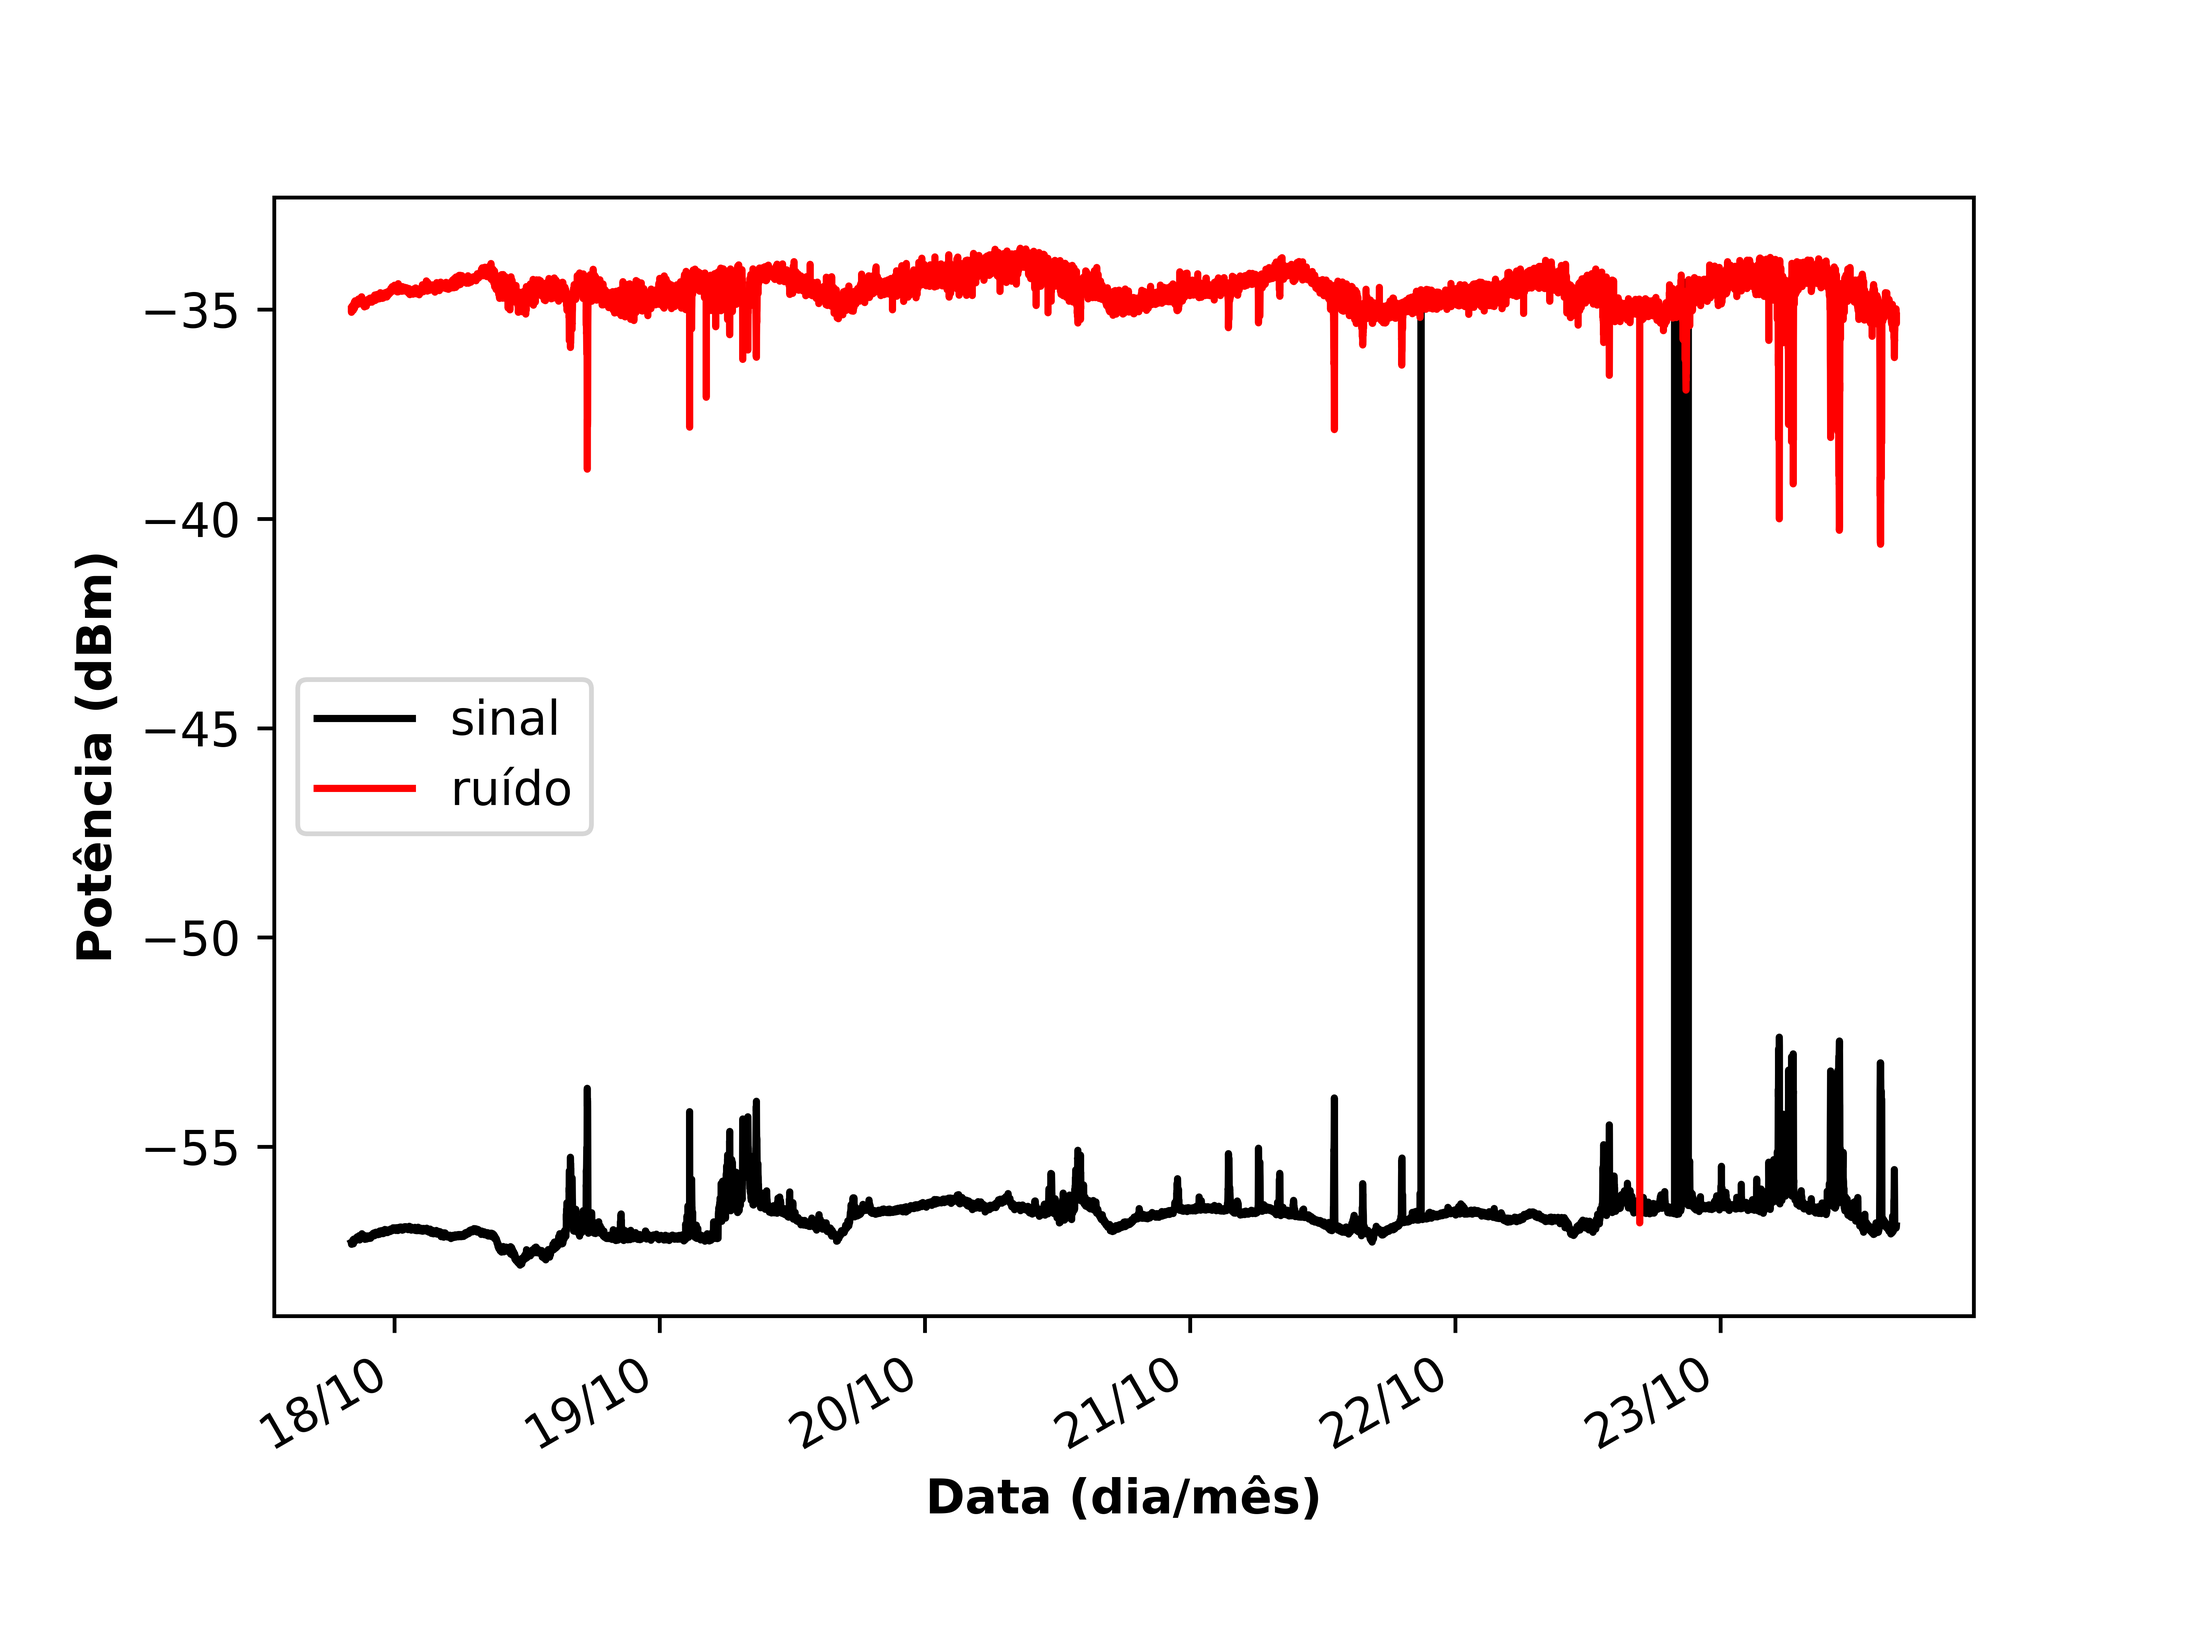
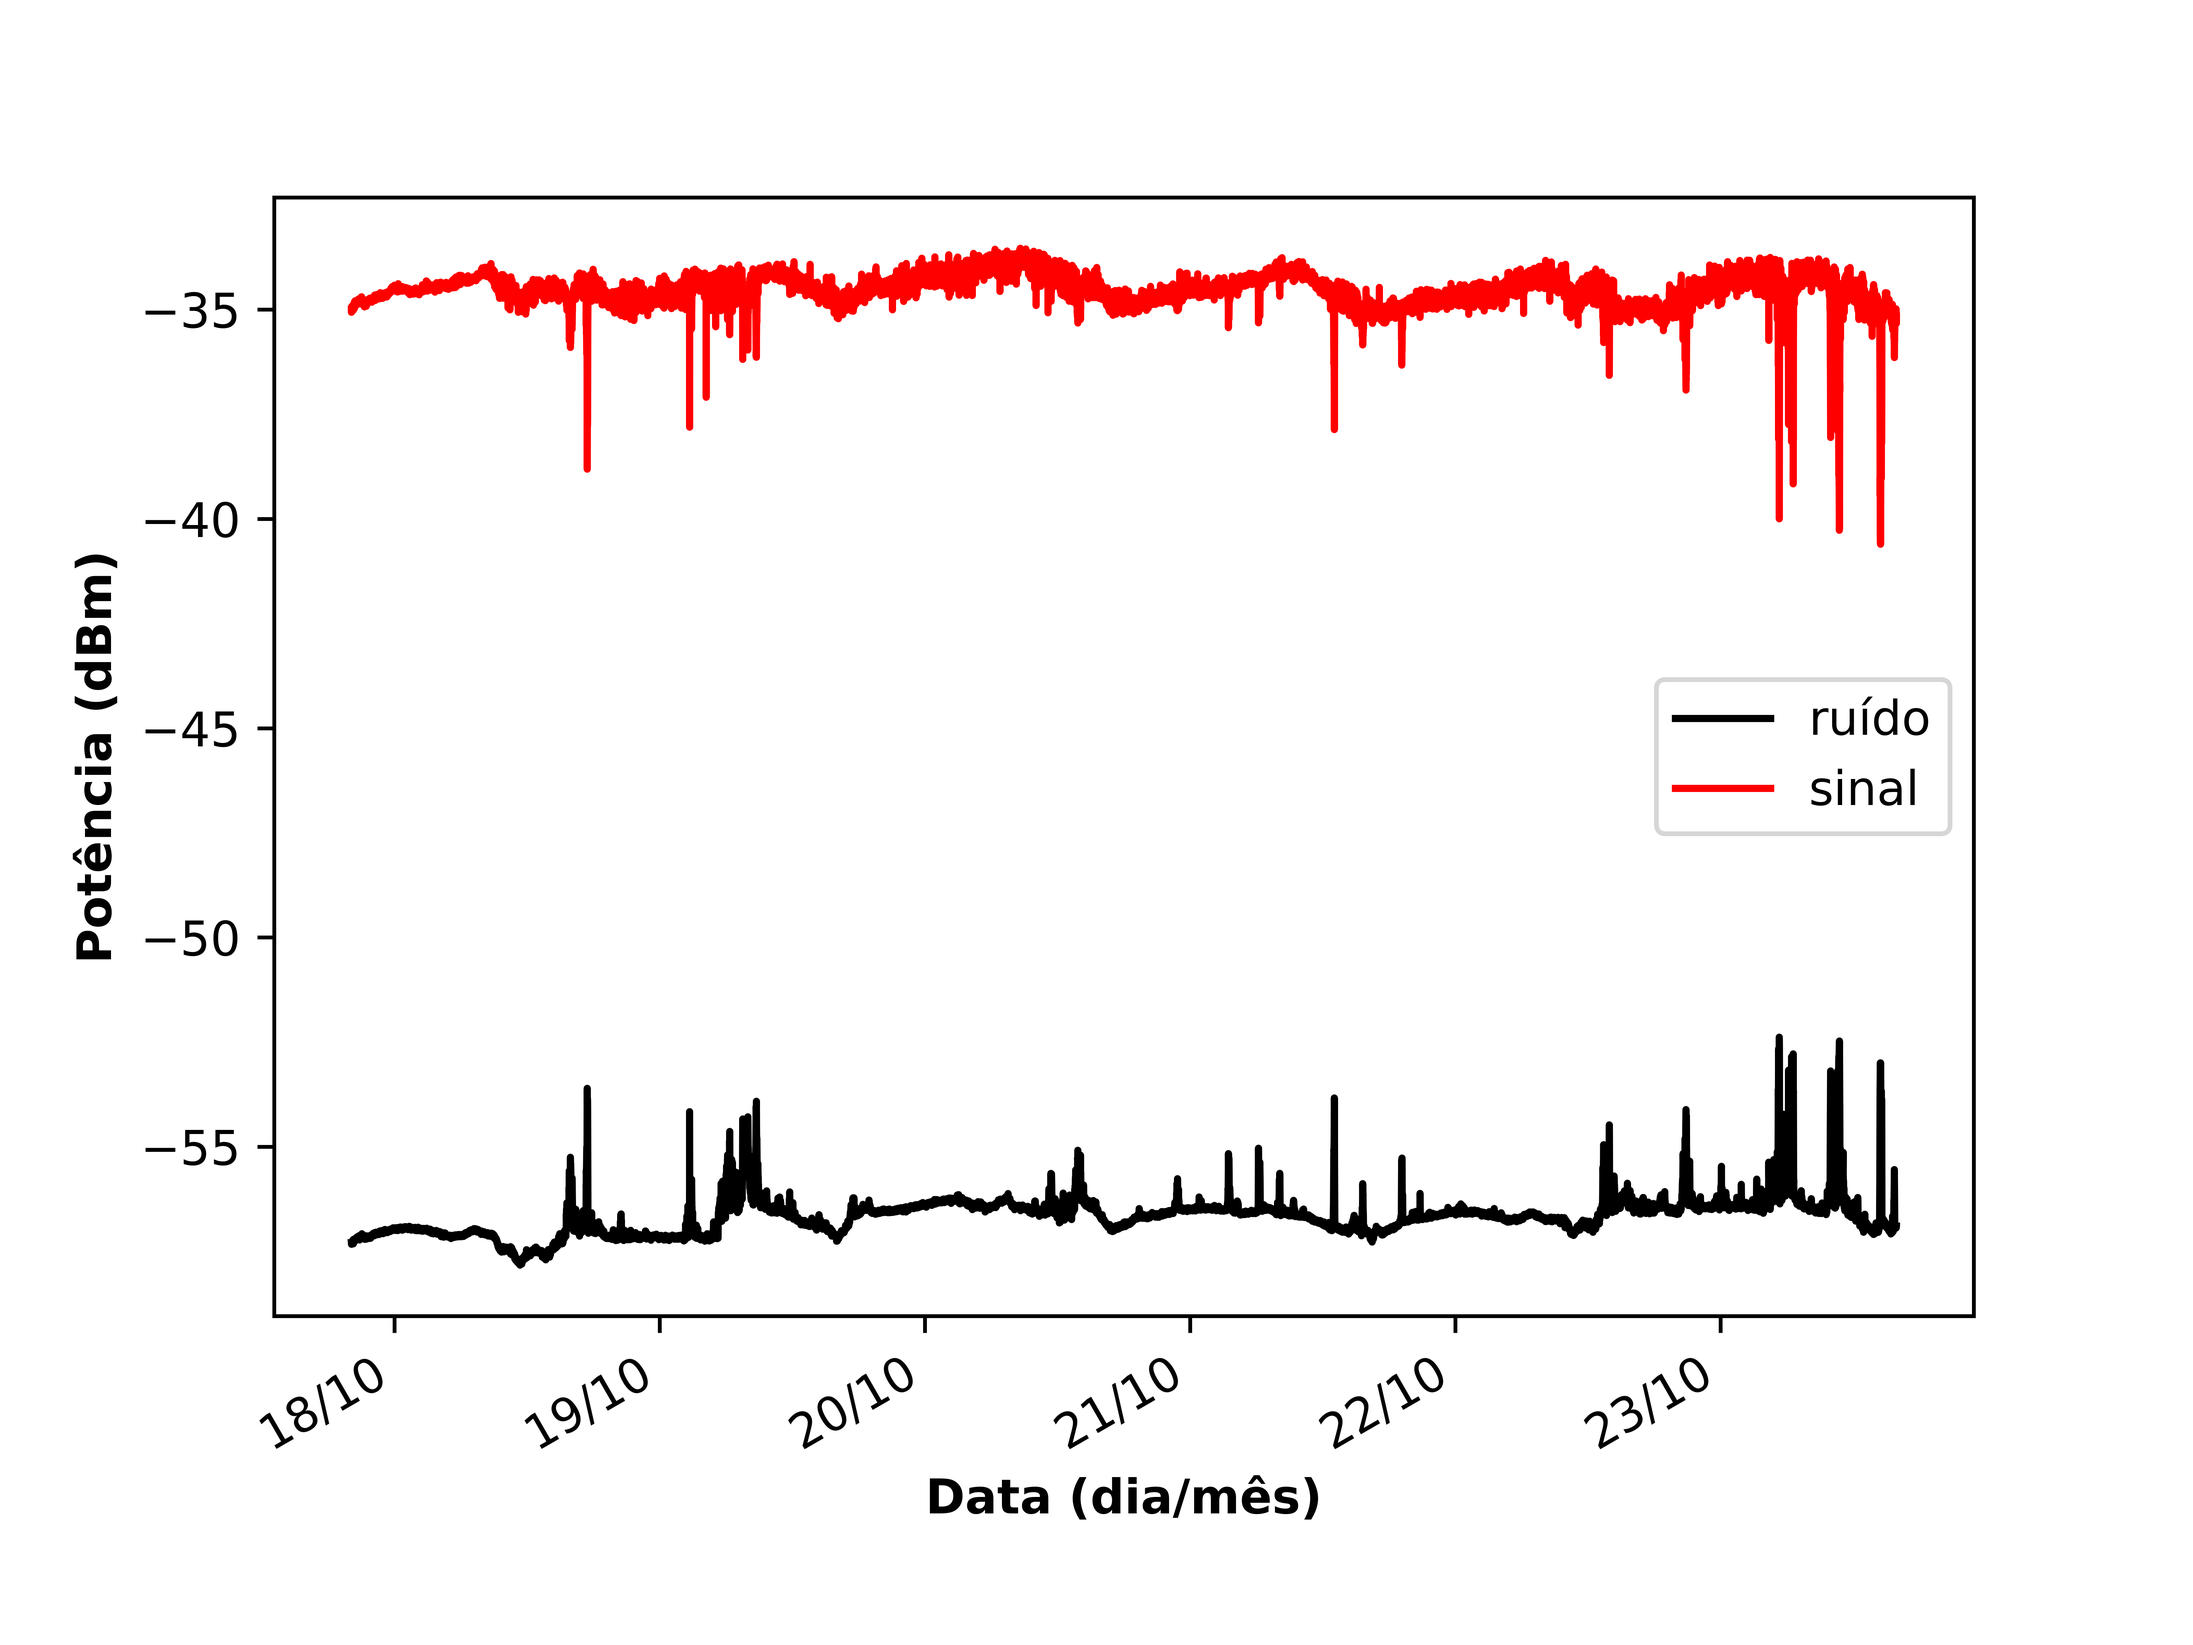
.

diff --git a/PYTHON/sr.py b/PYTHON/sr.py
@@ -106,11 +106,21 @@ noise_total['Value'] = noise_total['Value'].astype(float)
 noise_total.groupby(noise_total["Date"].dt.hour)["Value"].mean()
 print(noise_total)
 
-Y = fft(noise)
+print(noise_total['Value'][0])
+for i in range(0, len(noise_total['Value'])):
+    if abs(noise_total['Value'][i]) < 51:
+        noise_total['Value'][i] = noise_total['Value'][i - 1]
+
+for i in range(0, len(signal23)):
+    if abs(float(signal23[i])) > 45:
+        signal23[i] = signal23[i-1]
+
+X23 = fft(signal23)
+Y = fft(noise_total['Value'])
 fig = plt.figure()
 ax = fig.add_subplot(111)
-plt.plot(noise_datetime, ifft(Y), 'k', label='sinal')
-plt.plot(signal_datetime23, ifft(X23), color='red', label='ruído')
+plt.plot(noise_total['Date'], ifft(Y), 'k', label='ruído')
+plt.plot(signal_datetime23, ifft(X23), color='red', label='sinal')
 plt.plot()
 ax.xaxis.set_major_formatter(mdates.DateFormatter('%d/%m'))
 ax.set_xlabel('xlabel', fontdict=dict(weight='bold'))
@@ -169,7 +179,7 @@ date_time = pd.to_datetime(forecast_dates)
 
 def mean_filter(arr, k):
     p = len(arr)
-    diag_offset = np.linspace(-(k//2), k//2, k, dtype=int)
+    diag_offset = np.linspace(-(k // 2), k // 2, k, dtype=int)
     eL = scipy.sparse.diags(np.ones((k, p)), offsets=diag_offset, shape=(p, p))
     nrmlize = eL @ np.ones_like(arr)
     return (eL @ arr) / nrmlize
@@ -194,9 +204,9 @@ ax2.set_ylim([-58, -52])
 ax2.plot(noise_total['Date'], noise_total_filtered, 'k', label='Ruído')
 ax2.set_ylabel('Potência de Ruído (dBm)')
 plt.gcf().autofmt_xdate()
-#ax.legend()
-ax2.legend()
-plt.savefig('ruido_com_chuva2.png', dpi=1000)
+ax.legend()
+#ax2.legend()
+plt.savefig('ruido_com_chuva1.png', dpi=1000)
 plt.show()
 
 # for i in aux:
